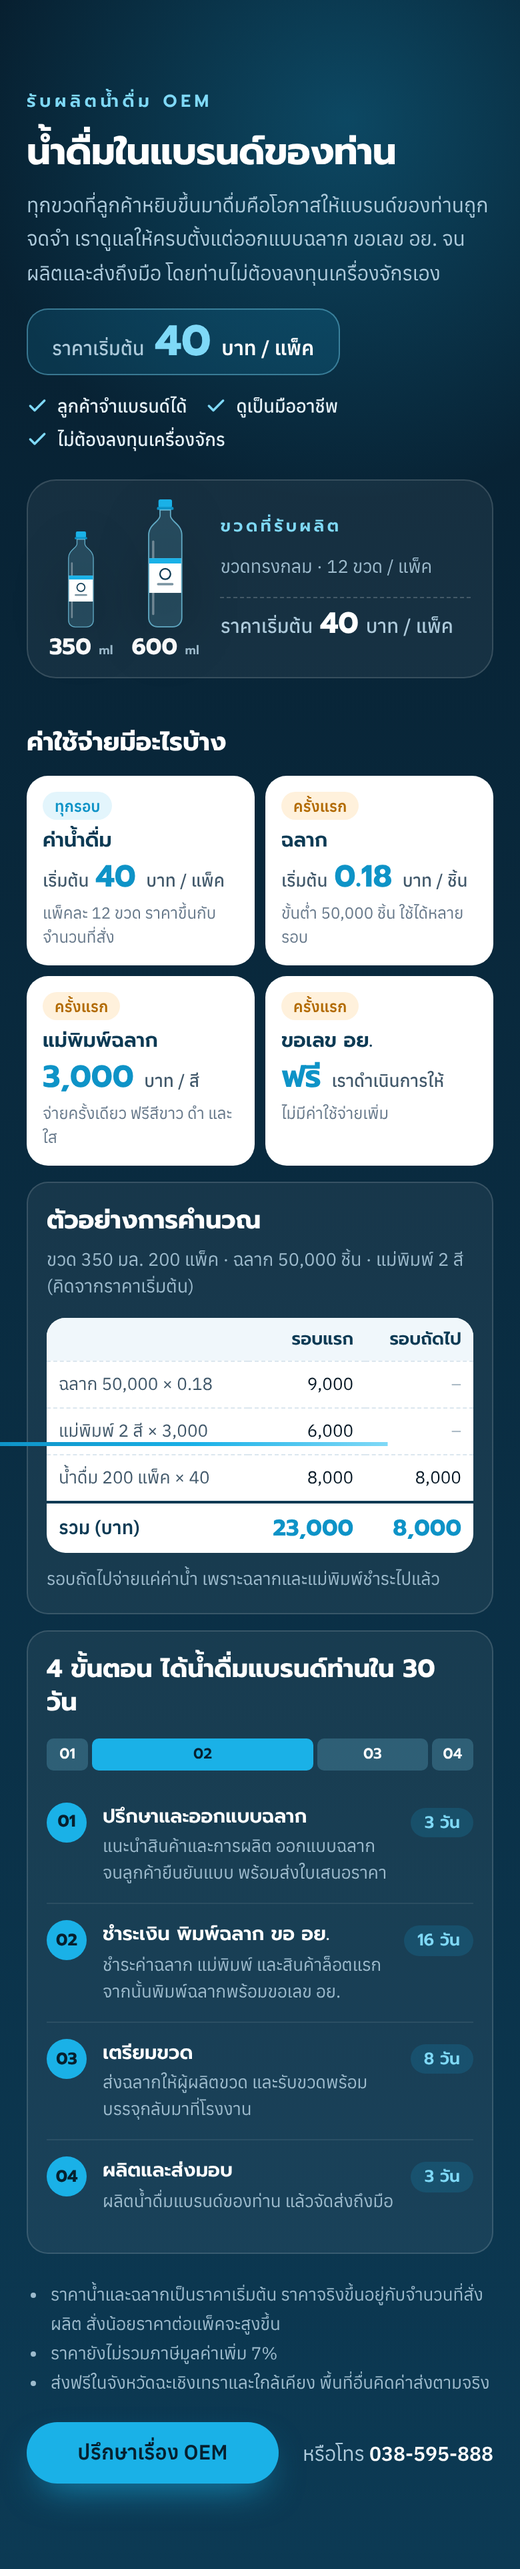
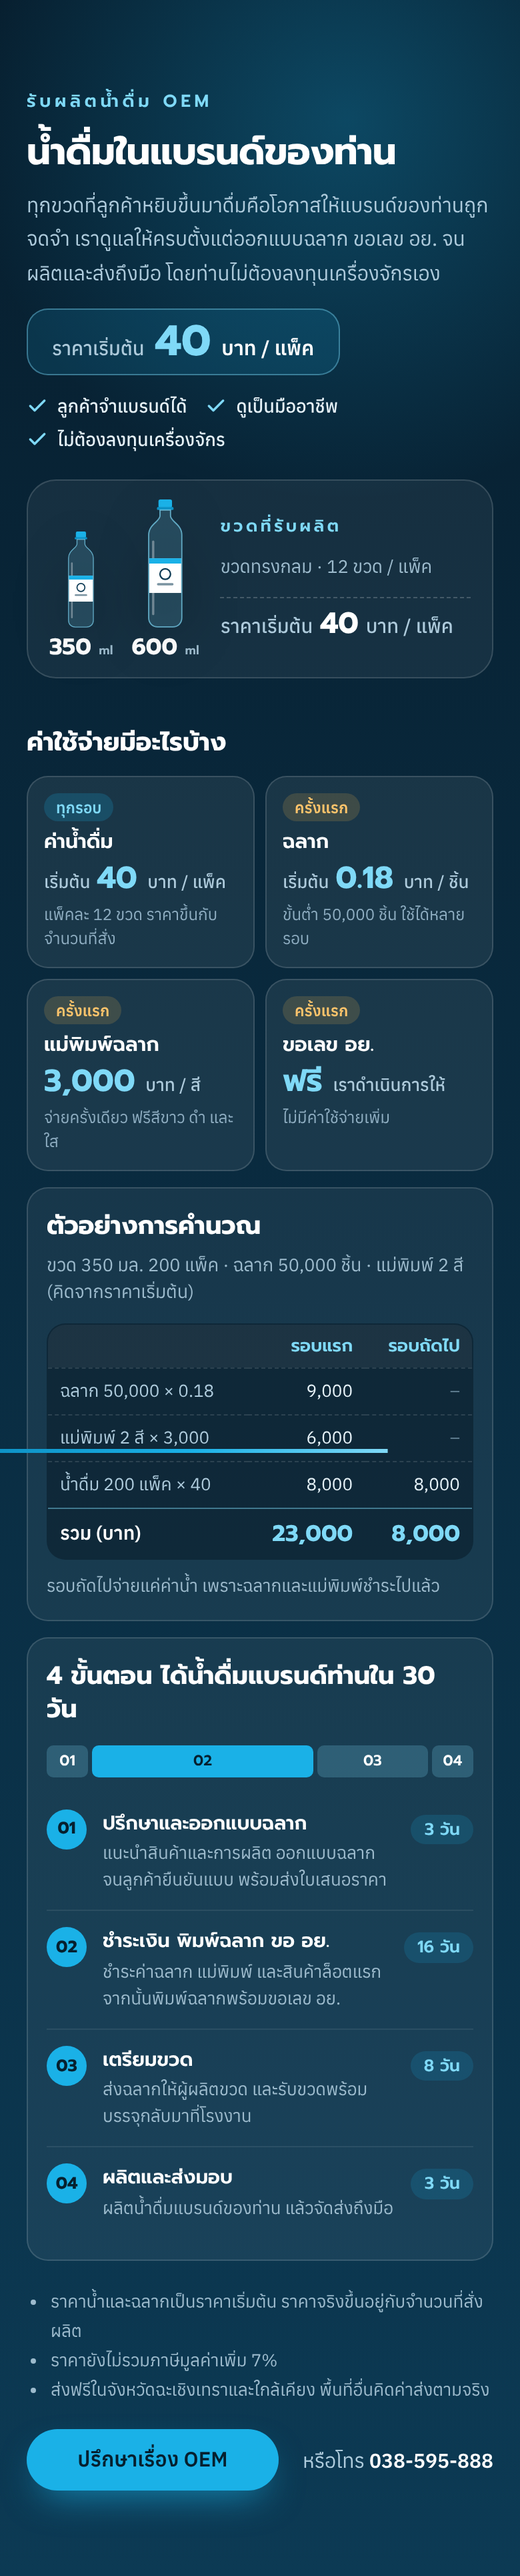
OEM section: dark cost cards and example table, trim price note
Claude-Session: https://claude.ai/code/session_01YaNiDfhZAcTEi77aYvJdhV

diff --git a/css/style.css b/css/style.css
@@ -342,27 +342,27 @@ input:focus,textarea:focus,select:focus{outline:2px solid var(--accent,#1AB1E7);
 .oem-h3{font:700 clamp(19px,2vw,23px)/1.3 'Prompt',sans-serif;margin:48px 0 0}
 .oem-h3.oem-h3-tight{margin:0}
 .oem-costs{display:grid;grid-template-columns:repeat(4,minmax(0,1fr));gap:12px;margin-top:16px}
-.oem-cost{background:#fff;color:#0A1B28;border-radius:16px;padding:14px 16px}
+.oem-cost{background:rgba(255,255,255,.07);border:1px solid rgba(255,255,255,.14);color:#fff;border-radius:16px;padding:14px 16px}
 .oem-cost-top{display:flex;justify-content:space-between;align-items:center;gap:8px}
-.oem-cost-name{font:600 15px/1.3 'Prompt',sans-serif;color:#0C3A54}
-.oem-cost-when{flex:0 0 auto;font:600 11.5px/1 'Anuphan',sans-serif;border-radius:999px;padding:5px 9px;background:#E3F5FC;color:#0E93C7}
-.oem-cost-first .oem-cost-when{background:#FFF1DC;color:#B26A00}
-.oem-cost-amount{font:700 28px/1.1 'Prompt',sans-serif;color:#0E93C7;margin-top:8px}
-.oem-cost-amount small{font:500 13px/1 'Anuphan',sans-serif;color:#41586A}
+.oem-cost-name{font:600 15px/1.3 'Prompt',sans-serif;color:#fff}
+.oem-cost-when{flex:0 0 auto;font:600 11.5px/1 'Anuphan',sans-serif;border-radius:999px;padding:5px 9px;background:rgba(26,177,231,.2);color:#7FD9F7}
+.oem-cost-first .oem-cost-when{background:rgba(255,184,77,.16);color:#FFC46B}
+.oem-cost-amount{font:700 28px/1.1 'Prompt',sans-serif;color:#7FD9F7;margin-top:8px}
+.oem-cost-amount small{font:500 13px/1 'Anuphan',sans-serif;color:#AECBDC}
 .oem-cost-amount small [data-l]:not(:empty){margin-right:5px}
-.oem-cost-unit{font:500 13px/1 'Anuphan',sans-serif;color:#41586A}
-.oem-cost-note{font:400 13px/1.5 'Anuphan',sans-serif;color:#66788A;margin:6px 0 0}
+.oem-cost-unit{font:500 13px/1 'Anuphan',sans-serif;color:#AECBDC}
+.oem-cost-note{font:400 13px/1.5 'Anuphan',sans-serif;color:#8FAEC2;margin:6px 0 0}
 .oem-split{display:grid;grid-template-columns:minmax(0,.9fr) minmax(0,1.1fr);gap:20px;margin-top:20px;align-items:start}
 .oem-example,.oem-timeline{background:rgba(255,255,255,.06);border:1px solid rgba(255,255,255,.14);border-radius:20px;padding:20px 22px}
 .oem-example-sub{font:400 13.5px/1.5 'Anuphan',sans-serif;color:#9DBBCD;margin:6px 0 0}
-.oem-bill{width:100%;border-collapse:collapse;margin-top:14px;background:#fff;color:#0A1B28;border-radius:14px;overflow:hidden;font:400 14px/1.4 'Anuphan',sans-serif;font-variant-numeric:tabular-nums}
+.oem-bill{width:100%;border-collapse:collapse;margin-top:14px;background:rgba(4,20,32,.45);border:1px solid rgba(255,255,255,.12);color:#E6F2F8;border-radius:14px;overflow:hidden;font:400 14px/1.4 'Anuphan',sans-serif;font-variant-numeric:tabular-nums}
 .oem-bill th,.oem-bill td{padding:9px 12px;text-align:right;white-space:nowrap}
-.oem-bill th:first-child,.oem-bill td:first-child{text-align:left;white-space:normal;color:#41586A}
-.oem-bill thead th{font:600 13px/1.2 'Prompt',sans-serif;color:#0C3A54;background:#F0F7FB}
-.oem-bill tbody td{border-top:1px dashed #DCE7EF}
-.oem-bill .oem-dash{color:#A9B8C4}
-.oem-bill tfoot td{border-top:2px solid #0C3A54;font:700 20px/1.2 'Prompt',sans-serif;color:#0E93C7}
-.oem-bill tfoot td:first-child{font:600 14px/1.2 'Anuphan',sans-serif;color:#0C3A54}
+.oem-bill th:first-child,.oem-bill td:first-child{text-align:left;white-space:normal;color:#AECBDC}
+.oem-bill thead th{font:600 13px/1.2 'Prompt',sans-serif;color:#7FD9F7;background:rgba(255,255,255,.06)}
+.oem-bill tbody td{border-top:1px dashed rgba(255,255,255,.12)}
+.oem-bill .oem-dash{color:#5F7D90}
+.oem-bill tfoot td{border-top:1px solid rgba(127,217,247,.45);font:700 20px/1.2 'Prompt',sans-serif;color:#7FD9F7}
+.oem-bill tfoot td:first-child{font:600 14px/1.2 'Anuphan',sans-serif;color:#fff}
 .oem-bill-note{font:400 13px/1.5 'Anuphan',sans-serif;color:#9DBBCD;margin:10px 0 0}
 .oem-bar{display:flex;gap:3px;margin-top:14px;height:24px}
 .oem-bar-seg{display:flex;align-items:center;justify-content:center;min-width:20px;background:rgba(127,217,247,.22);color:#fff;font:600 11px/1 'Prompt',sans-serif;border-radius:5px}
